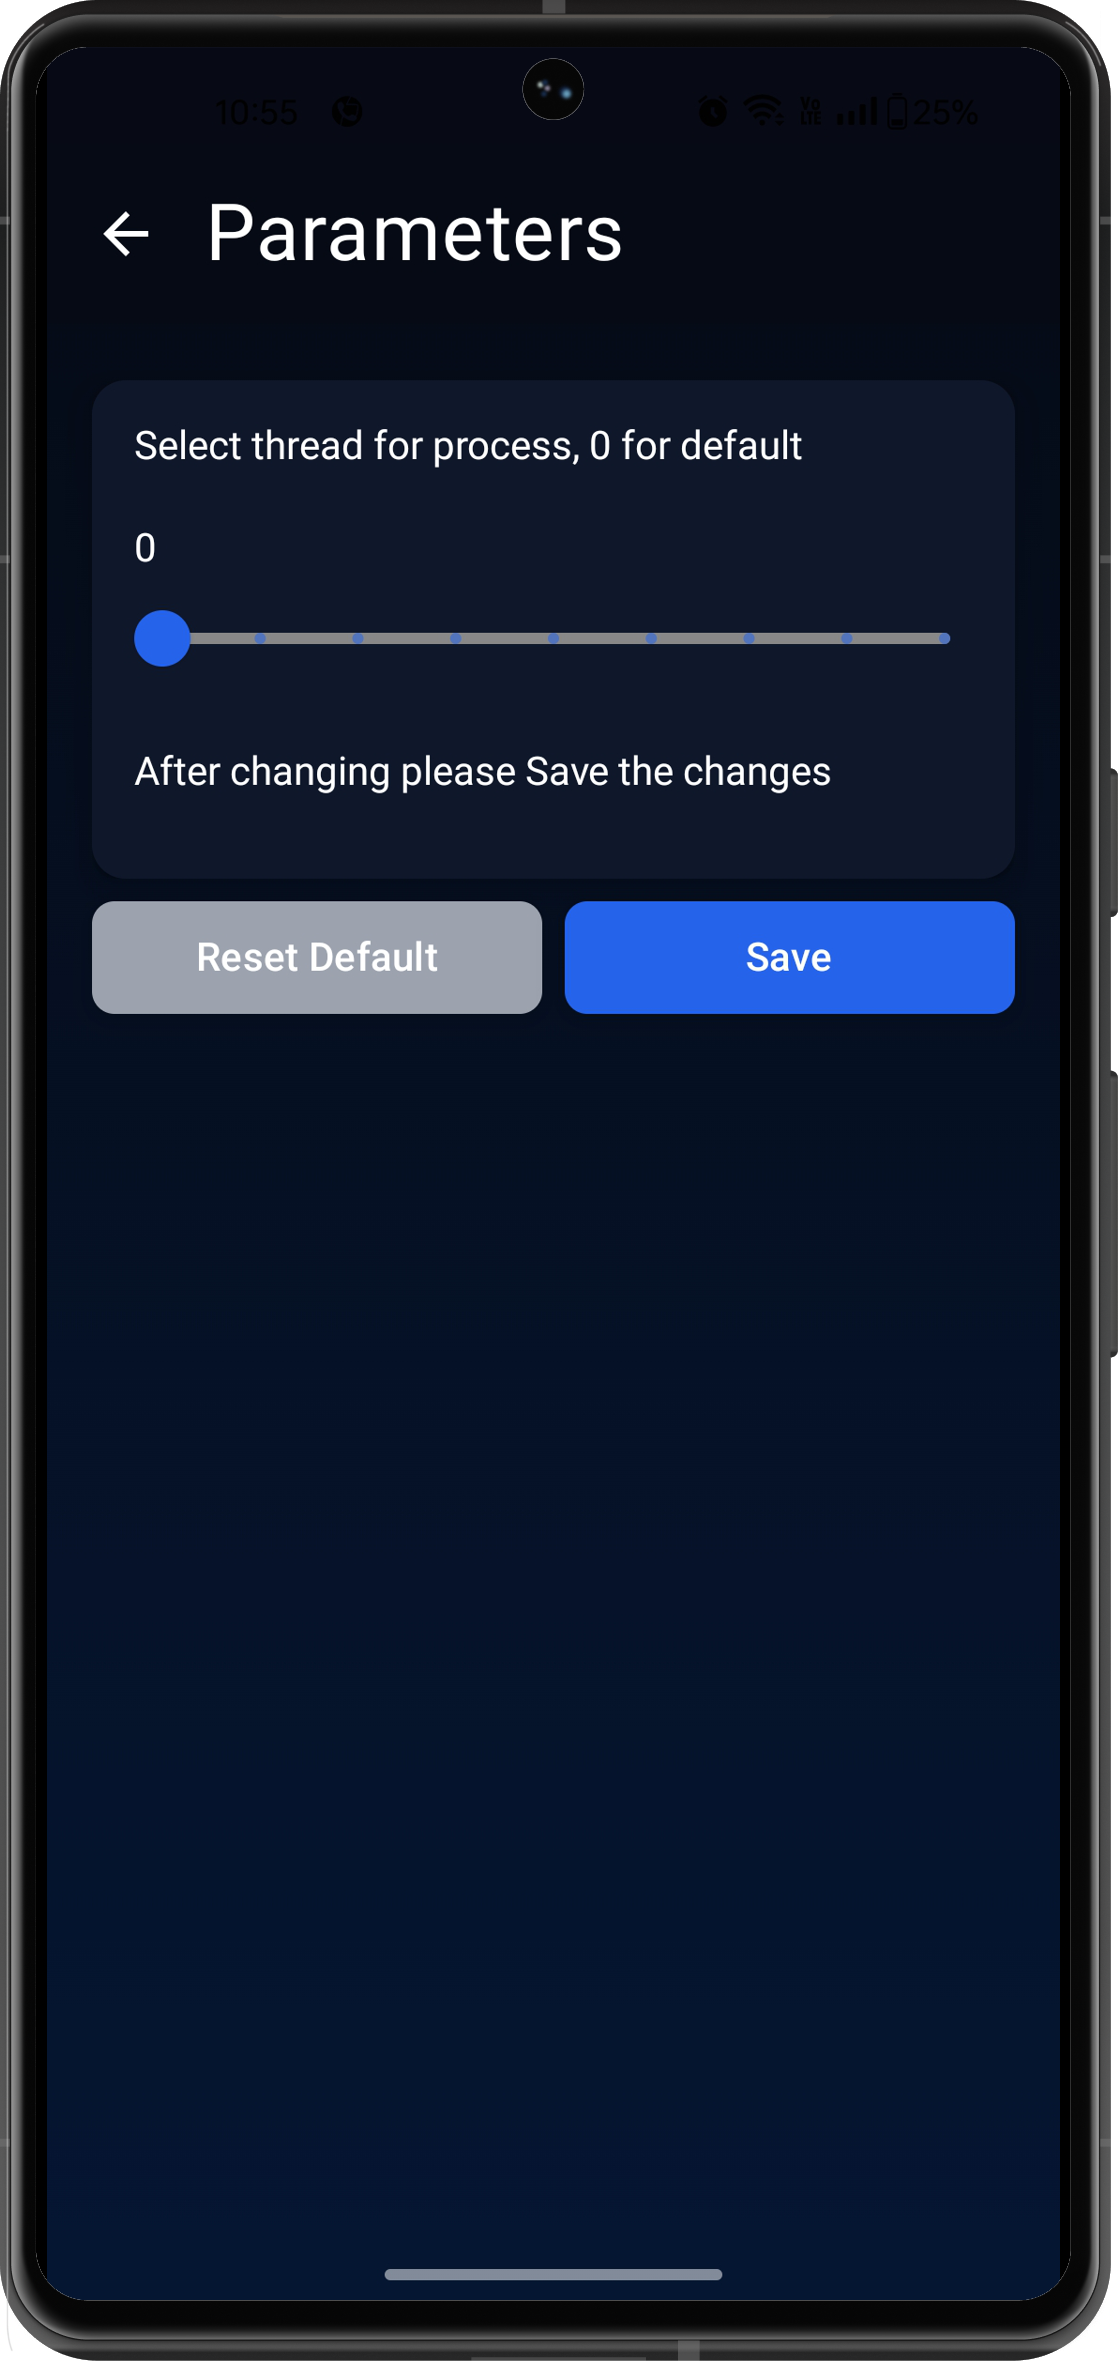
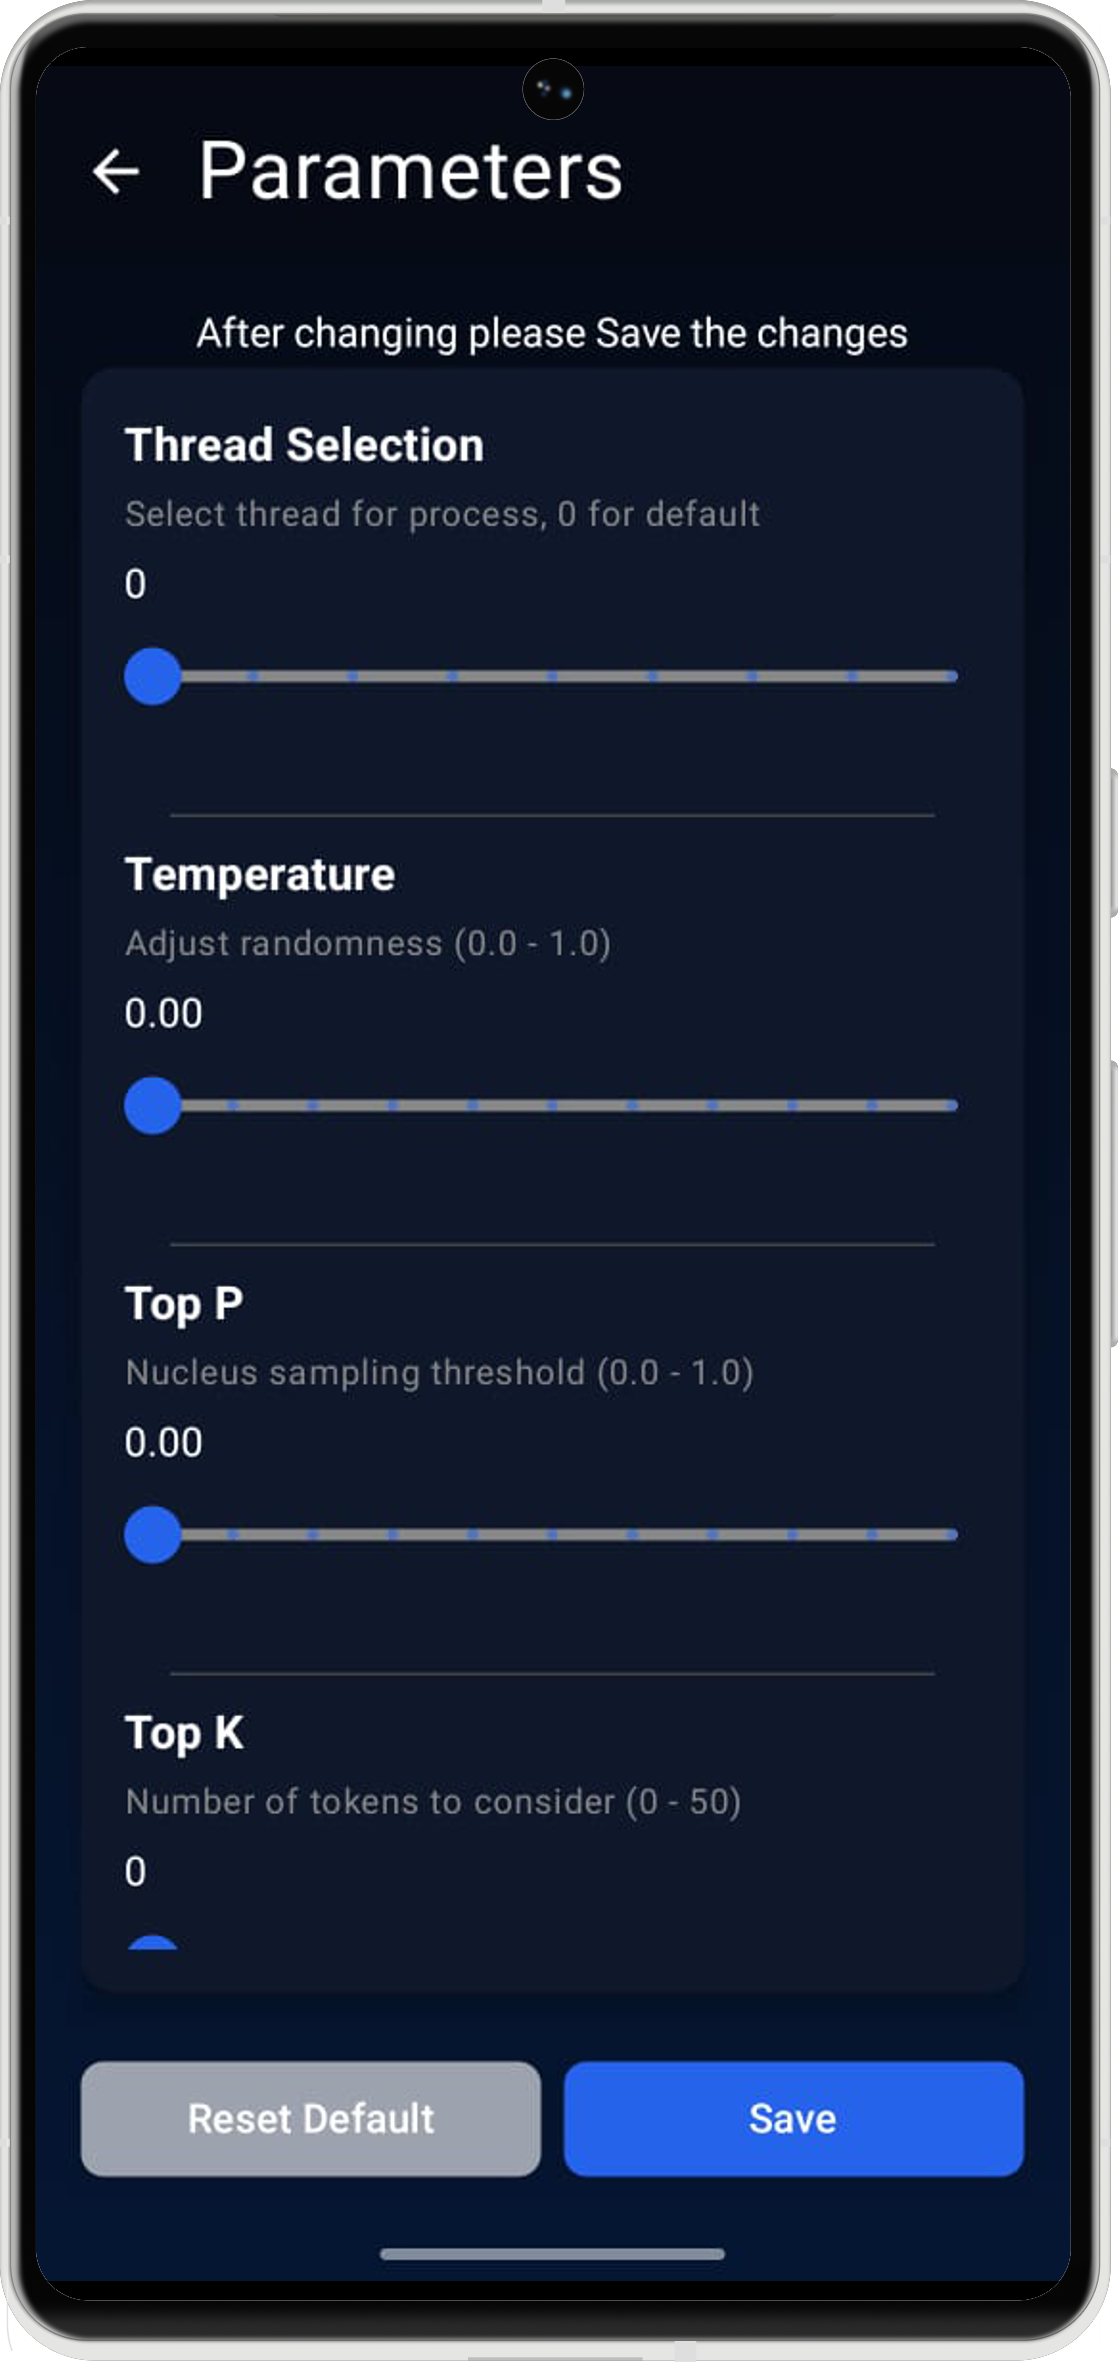
updated parameters screen

diff --git a/Readme.md b/Readme.md
@@ -32,7 +32,7 @@
   <div style="text-align: center; width: 200px;">
     <img src="./images/parameters_screen.png" alt="Parameters Screen Screenshot" width="200">
     <p><strong>Parameters Screen</strong></p>
-    <p>Users can adjust parameters to fine-tune the app's AI performance based on their needs.</p>
+    <p>Users can adjust parameters to fine-tune the app's performance based on their needs.</p>
   </div>
 </div>
 
@@ -48,7 +48,7 @@
 - Privacy-Focused: All data is processed securely on your device.
 - Expandable Models: Download external GGUF models from Hugging Face.
 - Open Source: Fully transparent development.
-- Customizable Parameters: n_threads can be adjusted to optimize performance based on device capabilities.
+- Customizable Parameters: n_threads, top_k, top_p, and temperature can be adjusted to optimize performance and behavior based on device capabilities and desired output.
 - Text To Speech: Support for Text-to-Speech functionality.
 - Speech To Text: Support for Speech-to-Text functionality.
 - Default Model Selection: Set a default model to load automatically on startup.
